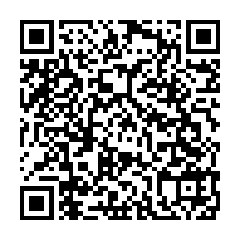
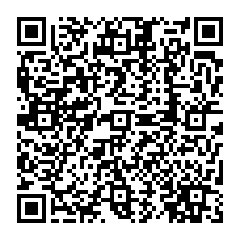
Corrected donation amount

diff --git a/README.md b/README.md
@@ -995,15 +995,14 @@ Hash: SHA512
 
 Monero Address
 
[1 lines of base64/hex data omitted]
+monero:879WXAcGEpc6CjdVc1mLR6HzsnV9ps9MbPFYPb6ukGJdVWug3wSv5EbdWynPySRFgqXYJkGyT1roZDWDKsDBdPmzPeU4Q3a?tx_amount=0.001431270396
 -----BEGIN PGP SIGNATURE-----
 
[2 lines of base64/hex data omitted]
-oKzw+9fP8UaJINjA1wPfCr40swNFGg8=
-=EJ9f
[2 lines of base64/hex data omitted]
+CynUaQvTj+pJwv3UZrXuPzx4HDiIPgA=
+=lbMj
 -----END PGP SIGNATURE-----
-
 ```
 
 
